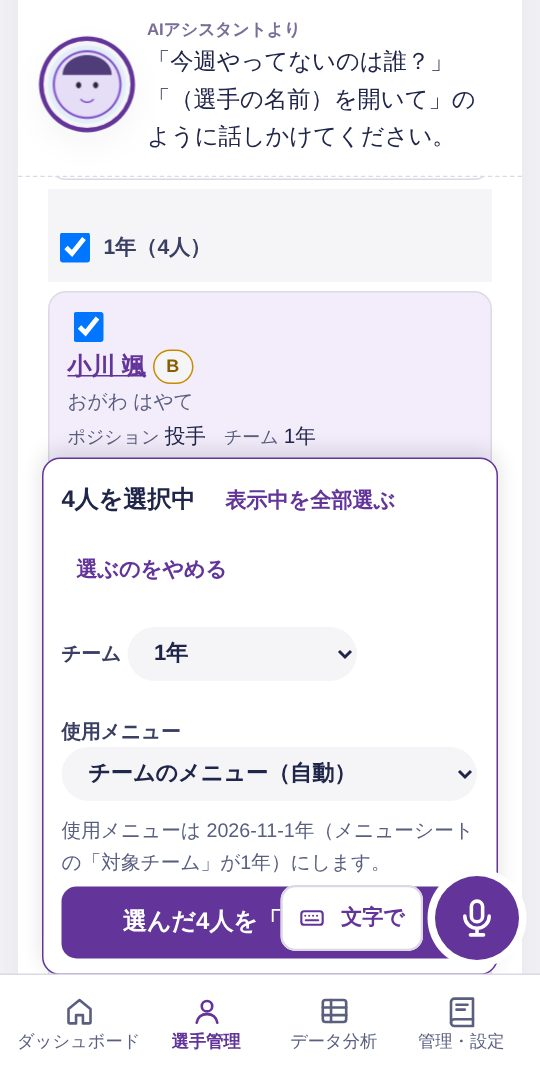
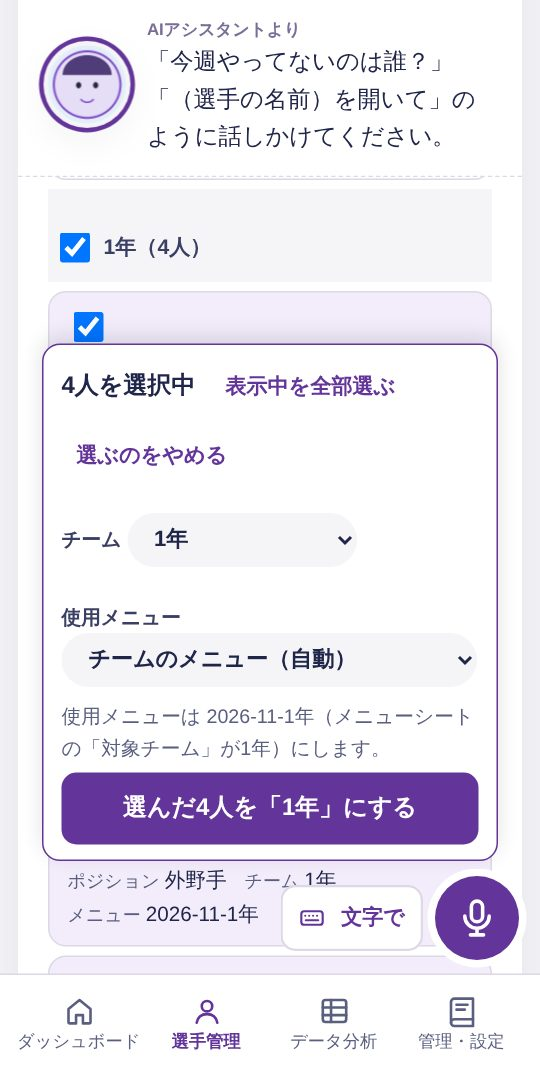
Add files via upload

Changed region(s): [[0.0593, 0.3056, 0.9481, 0.8861], [0.4148, 0.3361, 0.7407, 0.3667], [0.7704, 0.6417, 0.8, 0.6722]]

diff --git a/style.css b/style.css
@@ -139,7 +139,6 @@ input:focus, select:focus { outline: none; border-color: var(--color-accent); ba
 .tag { display: inline-block; padding: 2px 10px; border-radius: 999px; font-size: 0.78rem; font-weight: 700;
   background: var(--color-accent-100); color: var(--color-accent-800); }
 .tag.off { background: var(--warn-bg); color: #6b5200; }
-.chips { display: flex; gap: 8px; flex-wrap: wrap; }
 .chip { display: inline-block; margin: 3px 2px; padding: 8px 12px; border-radius: 999px; background: var(--color-surface); font-size: 0.9rem; font-weight: 600; }
 .chip.done { background: var(--color-accent-100); color: var(--color-accent-800); }
 .topbar { display: flex; justify-content: space-between; align-items: center; gap: 8px; margin-bottom: 8px; }
@@ -171,12 +170,8 @@ details > summary { cursor: pointer; }
 .stamp.done .stamp-mark { background: var(--color-accent); color: #fff; box-shadow: none; }
 .stamp.today .stamp-mark { color: var(--color-accent-700); font-weight: 700; box-shadow: inset 0 0 0 2.5px var(--color-accent); }
 .stamp.today .stamp-label { color: var(--color-accent-700); font-weight: 700; }
-.today-card { display: flex; flex-direction: column; gap: 4px; padding: 20px; border-radius: var(--round); background: var(--color-accent-100); margin: 18px 0; }
-.today-kicker { display: flex; align-items: center; justify-content: space-between; font-size: 0.88rem; font-weight: 600; color: var(--color-accent-800); }
-.today-kicker .btn { color: var(--color-accent-800); margin: -10px -8px -10px 0; }
 .today-title { font-size: 1.6rem; font-weight: 700; line-height: 1.3; }
 .today-items { font-size: 0.95rem; color: var(--color-neutral-800); margin-bottom: 6px; }
-.today-card .btn.ghost { color: var(--color-accent-800); margin-top: 4px; }
 .again { margin: 0 0 14px; font-size: 0.9rem; color: var(--color-neutral-700); }
 .again summary { padding: 8px 0; }
 /* 自分のメニュー */
@@ -239,8 +234,6 @@ details > summary { cursor: pointer; }
 .rpe button { width: 56px; height: 56px; border: none; border-radius: 50%; background: var(--color-surface); color: var(--color-text);
   font: inherit; font-size: 1.25rem; font-weight: 700; cursor: pointer; padding: 0; }
 .rpe button.on { background: var(--color-accent); color: #fff; box-shadow: 0 0 0 3px var(--color-bg), 0 0 0 5px var(--color-accent); }
-.rpe-scale { display: flex; justify-content: space-between; font-size: 0.82rem; color: var(--color-neutral-700); margin-top: 8px; }
-.rpe-pill { width: fit-content; margin: 10px auto 0; padding: 8px 18px; border-radius: 999px; background: var(--color-accent-2-100); color: var(--color-accent-2-800); font-weight: 700; }
 .mm-finish { padding: 14px 16px; border-radius: var(--round); background: var(--color-surface); margin: 18px 0 8px; }
 .mm-finish-head { display: flex; align-items: center; gap: 10px; }
 .mm-finish label { margin-top: 10px; }
@@ -267,11 +260,6 @@ details > summary { cursor: pointer; }
   padding-bottom: env(safe-area-inset-bottom); }
 .dock[hidden] { display: none; }
 .dock > * { max-width: 640px; margin-left: auto; margin-right: auto; }
-.dock-coach { display: flex; align-items: flex-end; gap: 12px; padding: 0 16px; margin-top: -22px; }
-.dock-coach[hidden] { display: none; }
-.dock-coach.no-avatar { margin-top: 0; height: 0; padding-top: 0; }
-.dock-coach.no-avatar .dock-bubble { min-height: 0; position: absolute; left: 16px; right: 16px; bottom: calc(100% + 8px); }
-.dock-coach.no-avatar .coach-line { display: none; }
 .dock-avatar { flex: none; display: block; }
 .dock-avatar:empty { display: none; }
 /* 吹き出し：いつもは「ひとこと」（coachLine）。返事（voiceBox）はその上に重ねて、上に伸びる（バーの高さは変わらない） */
@@ -282,7 +270,6 @@ details > summary { cursor: pointer; }
 .coach-line:empty { visibility: hidden; }
 .voice-box { position: absolute; left: 0; right: 0; bottom: 0; z-index: 2; max-height: min(60vh, 480px); overflow-y: auto; box-shadow: var(--shadow-md); }
 .voice-box[hidden] { display: none; }
-.dock-coach.no-avatar .voice-box { border-radius: 16px; }
 .voice-box .heard { color: var(--color-neutral-700); font-weight: 600; font-size: 0.85rem; }
 .voice-box .reply { color: var(--color-accent-900); margin-top: 2px; font-style: italic; }
 .voice-box .reply.ng { color: var(--color-accent-2-700); }
@@ -548,12 +535,6 @@ body.report-modal-open { overflow: hidden; }
 }
 
 /* ---- 記録し忘れた日の分（v26） ---- */
-.day-pills { display: grid; grid-template-columns: repeat(4, 1fr); gap: 8px; }
-.day-pills button { min-height: 56px; border: none; border-radius: 18px; background: var(--color-surface); color: var(--color-text);
-  font: inherit; font-weight: 700; display: flex; flex-direction: column; align-items: center; justify-content: center; cursor: pointer; }
-.day-pills button span { font-size: .75rem; font-weight: 400; color: var(--color-neutral-700); }
-.day-pills button.on { background: var(--color-accent); color: #fff; }
-.day-pills button.on span { color: #e9f8ff; }
 .late { color: var(--color-accent-2-700); }
 .backdate .next-pills .btn { line-height: 1.3; }
 
@@ -584,10 +565,10 @@ h1 { font-weight: 900; }
 .sec-head .btn.ghost { min-height: 36px; font-size: 0.82rem; }
 
 /* ---- カードは使わない：まとまり（.group / .card / .sec など）は余白と線で区切る ---- */
-.group, .card, .sec, .today-card, .mm-finish, .mm-item, .hist-detail, .ex-card, .mm-row, .done-row, .reorder-row, .hist-month, .tabs, .stat {
+.group, .card, .sec, .mm-finish, .mm-item, .hist-detail, .ex-card, .mm-row, .done-row, .reorder-row, .hist-month, .tabs, .stat {
   background: transparent; box-shadow: none; border-radius: 0; }
-.group, .card, .sec, .today-card { padding: 0; margin: 0 0 24px; }
-.group > * + :is(.sec, section, .card, .today-card, .mm-finish, .hist-detail, .hist-add) { margin-top: 22px; }
+.group, .card, .sec { padding: 0; margin: 0 0 24px; }
+.group > * + :is(.sec, section, .card, .mm-finish, .hist-detail, .hist-add) { margin-top: 22px; }
 .card.soft { background: var(--color-surface); border-radius: 10px; padding: 12px 14px; box-shadow: inset 3px 0 0 var(--color-accent); }
 .card.voice-help { border-top: 1px dashed var(--line-strong); padding-top: 10px; color: var(--color-neutral-700); }
 .topbar { border-bottom: 1px dashed var(--line-strong); padding-bottom: 8px; margin-bottom: 14px; }
@@ -596,8 +577,6 @@ h1 { font-weight: 900; }
 /* ---- マーカー（大事な言葉） ---- */
 .mark, .hist-summary .big-num em, .today-title { background: linear-gradient(transparent 60%, var(--mark) 60%); }
 .today-title { display: inline; font-size: 1.65rem; font-weight: 900; }
-.today-kicker { font-size: 0.78rem; font-weight: 700; color: var(--label); letter-spacing: 0.06em; margin-bottom: 4px; }
-.today-kicker .btn { color: var(--color-accent-700); }
 
 /* ---- 横線の表（今日のメニュー・記録の詳しい内容など） ---- */
 .line-table, .hist-table { width: 100%; border-collapse: collapse; border-top: 1.5px solid var(--rule); border-bottom: 1.5px solid var(--rule); margin: 10px 0 12px; font-size: 0.95rem; }
@@ -639,14 +618,12 @@ input:focus, select:focus { background: var(--color-paper); }
 .coach-band.no-avatar .coach-line { display: none; }
 .voice-box .heard { color: var(--color-neutral-700); font-weight: 500; font-size: 0.82rem; }
 .voice-box .reply { color: var(--color-text); font-style: normal; }
-.voice-box .reply.ng { color: var(--color-accent-2-700); }
 .voice-box .av-name { color: var(--label); }
 .choose-list { gap: 0; border-top: 1.5px solid var(--rule); border-bottom: 1.5px solid var(--rule); margin-top: 8px; }
 .choose-btn { border-radius: 0 !important; background: transparent !important; color: var(--color-accent-700); box-shadow: none !important; min-height: 44px; border-bottom: 1px solid var(--line) !important; font-weight: 700; }
 .choose-btn:last-child { border-bottom: none !important; }
 .choose-btn:not(.sub):not(.ghost) { background: var(--color-accent-100) !important; color: var(--color-accent-700) !important; }
 /* ホーム・ログイン：コーチは紙の一番上に大きく */
-.home-top { display: flex; justify-content: space-between; align-items: center; }
 .home-top .kicker { font-weight: 700; color: var(--color-text); font-size: 0.9rem; }
 .coach-hello { display: flex; gap: 14px; align-items: center; padding: 6px 0 16px; margin: 4px 0 18px; border-bottom: 1px dashed var(--line-strong); }
 .coach-hello .avatar.av-big, .avatar.av-big { width: 84px; height: 84px; }
@@ -714,7 +691,6 @@ input:focus, select:focus { background: var(--color-paper); }
 .stat span { color: var(--label); }
 .rpe button { background: transparent; box-shadow: inset 0 0 0 1.5px var(--line-strong); }
 .rpe button.on { background: var(--color-accent); color: #fff; box-shadow: none; }
-.rpe-pill { border-radius: 4px; background: var(--color-accent-100); color: var(--color-accent-700); }
 
 /* ---- 記録（カレンダー） ---- */
 .hist-summary .big-num { font-size: 1.9rem; font-weight: 900; }
@@ -724,7 +700,6 @@ input:focus, select:focus { background: var(--color-paper); }
 .hist-cal { gap: 4px; margin-top: 6px; padding: 4px 0 8px; border-top: 1.5px solid var(--rule); border-bottom: 1.5px solid var(--rule); }
 .hist-day { width: 100%; max-width: 46px; height: 40px; border-radius: 4px; }
 .hist-day.done { background: var(--color-accent); color: #fff; }
-.hist-day.done.mine-only { background: var(--color-accent-2-600); }
 .hist-day.today { box-shadow: inset 0 0 0 2px var(--color-text); }
 .hist-day.addable { box-shadow: inset 0 0 0 1.5px var(--color-accent-400); color: var(--color-accent-700); }
 .hist-day.addable.today { box-shadow: inset 0 0 0 2px var(--color-text); }
@@ -739,7 +714,6 @@ input:focus, select:focus { background: var(--color-paper); }
 .hist-session { border-top: none; }
 .hist-badge { border-radius: 4px; }
 .hist-add { border-top: 1px dashed var(--line-strong); }
-.day-pills button { border-radius: 10px; }
 
 /* ---- 体組成・スタッフ：タブは下線で切り替え ---- */
 .tabs { padding: 0; border-bottom: 1px solid var(--line-strong); margin: 8px 0 16px; }
@@ -771,7 +745,6 @@ input:focus, select:focus { background: var(--color-paper); }
 
 /* ---- 設定パネル ---- */
 .avatar-picker { background: var(--color-paper); color: var(--color-text); border-radius: var(--round); box-shadow: 0 0 0 1px var(--line-strong), var(--shadow-lg); }
-.avatar-picker-option[aria-pressed="true"] { background: var(--color-accent); color: #fff; box-shadow: none; }
 .avatar-picker-option { border-radius: 10px; }
 
 /* ---- 版の表示 ---- */
@@ -1088,6 +1061,8 @@ body.has-fab .wrap { padding-bottom: calc(var(--dock-h, 90px) + 96px); }
   body.is-staff .staff-voice-row .btn.sub { background: var(--color-paper); min-height: 44px; }
   body.is-staff .staff-voice-row .mic-btn { width: 56px; height: 56px; }
   body.is-staff.has-dock .wrap { padding-bottom: calc(var(--dock-h, 90px) + 96px); }
+  /* v68：チーム分けの欄（下に貼り付く）を、右下に浮かべた「文字で」・マイクの上に出す（重なってボタンの右が押せなかった） */
+  body.is-staff .sl-bar { bottom: calc(var(--dock-h, 70px) + 76px); }
 }
 /* タブレット・PC（768px以上）：左のサイドバー（v65：768〜1199px は細いサイドバー。下の v65 の欄） */
 @media (min-width: 768px) {

diff --git a/index.html b/index.html
@@ -11,9 +11,9 @@
   <link rel="preconnect" href="https://fonts.googleapis.com">
   <link rel="preconnect" href="https://fonts.gstatic.com" crossorigin>
   <link rel="stylesheet" href="https://fonts.googleapis.com/css2?family=Zen+Kaku+Gothic+New:wght@400;500;700;900&display=swap">
-  <link rel="stylesheet" href="style.css?v=67">
+  <link rel="stylesheet" href="style.css?v=68">
   <!-- 昼／夜の色を、画面が出る前に決める（theme.js） -->
-  <script src="theme.js?v=67"></script>
+  <script src="theme.js?v=68"></script>
 </head>
 <body>
   <!-- 画面の上の帯（v30）：コーチと吹き出し。吹き出しには返事（#voiceBox）か、その画面のひとこと（#coachLine）が出る -->
@@ -42,39 +42,39 @@
   <!-- ?v=21… は古いファイルが残らないようにするための印（更新のたびに変える）。config.js は変えない -->
   <!-- 読み込む順番に意味がある（設定 → 通信 → 絵 → 読み上げ → 聞き取り → 画面 → 音声操作 → 下のバー） -->
   <script src="config.js"></script>
-  <script src="api.js?v=67"></script>
-  <script src="icons.js?v=67"></script>
-  <script src="readings.js?v=67"></script>
-  <script src="speech.js?v=67"></script>
-  <script src="voice.js?v=67"></script>
-  <script src="app.js?v=67"></script>
-  <script src="body.js?v=67"></script>
-  <script src="import.js?v=67"></script>
+  <script src="api.js?v=68"></script>
+  <script src="icons.js?v=68"></script>
+  <script src="readings.js?v=68"></script>
+  <script src="speech.js?v=68"></script>
+  <script src="voice.js?v=68"></script>
+  <script src="app.js?v=68"></script>
+  <script src="body.js?v=68"></script>
+  <script src="import.js?v=68"></script>
   <!-- v34：コンディションの推移のグラフ（スタッフ画面の選手詳細） -->
-  <script src="condchart.js?v=67"></script>
-  <script src="staff.js?v=67"></script>
-  <script src="staff_body.js?v=67"></script>
-  <script src="roster.js?v=67"></script>
-  <script src="staff_list.js?v=67"></script>
-  <script src="menu_import.js?v=67"></script>
-  <script src="export.js?v=67"></script>
-  <script src="body_base.js?v=67"></script>
-  <script src="mymenu.js?v=67"></script>
-  <script src="mypage.js?v=67"></script>
-  <script src="guidebook.js?v=67"></script>
-  <script src="history.js?v=67"></script>
-  <script src="avatar.js?v=67"></script>
-  <script src="chat.js?v=67"></script>
+  <script src="condchart.js?v=68"></script>
+  <script src="staff.js?v=68"></script>
+  <script src="staff_body.js?v=68"></script>
+  <script src="roster.js?v=68"></script>
+  <script src="staff_list.js?v=68"></script>
+  <script src="menu_import.js?v=68"></script>
+  <script src="export.js?v=68"></script>
+  <script src="body_base.js?v=68"></script>
+  <script src="mymenu.js?v=68"></script>
+  <script src="mypage.js?v=68"></script>
+  <script src="guidebook.js?v=68"></script>
+  <script src="history.js?v=68"></script>
+  <script src="avatar.js?v=68"></script>
+  <script src="chat.js?v=68"></script>
   <!-- v31：自分のデータの質問に答える（体組成・自己ベスト・順位など） -->
   <!-- v42：ページの見方・言葉の意味 -->
-  <script src="guide.js?v=67"></script>
-  <script src="qa.js?v=67"></script>
+  <script src="guide.js?v=68"></script>
+  <script src="qa.js?v=68"></script>
   <!-- v33：コンディション（疲労度・パフォーマンスの質・コメント）の記録 -->
-  <script src="condition.js?v=67"></script>
-  <script src="commands.js?v=67"></script>
+  <script src="condition.js?v=68"></script>
+  <script src="commands.js?v=68"></script>
   <!-- v35：スタッフ画面の会話（質問に答える・話しかけて操作する） -->
-  <script src="staff_qa.js?v=67"></script>
-  <script src="staff_voice.js?v=67"></script>
-  <script src="dock.js?v=67"></script>
+  <script src="staff_qa.js?v=68"></script>
+  <script src="staff_voice.js?v=68"></script>
+  <script src="dock.js?v=68"></script>
 </body>
 </html>

diff --git a/guidebook.js b/guidebook.js
@@ -169,7 +169,7 @@ var Guidebook = {
       { id: 'voice', h: 'AIアシスタント（声）の使い方', body: [
         'マイクを押して話すか、「文字で」で打ちこみます（パソコンは画面の下、スマホは右下）。パソコンで声が使えないときも文字で使えます。中身は決まった言い方に答える仕組みで、生成AIは使っていません。',
         { img: 's-voice.jpg', alt: 'AIアシスタントに質問したところ' },
-        { table: [['したいこと', '言い方の例'], ['選手の様子', '「今週やってないのは誰？」「疲れている選手は？」「コンディションを入れていないのは誰？」'],
+        { table: [['したいこと', '言い方の例'], ['選手の様子', '「今週の状況をまとめて」「今週やってないのは誰？」「疲れている選手は？」「コンディションを入れていないのは誰？」'],
                   ['1人のこと', '「（名前）を開いて」「（名前）の除脂肪体重の推移は？」「（名前）のフィジカルレポートを開いて」'], ['体組成', '「FFMIの1位は？」「体重を測っていないのは誰？」'],
                   ['画面の操作', '「先週にして」「1年の投手を見せて」「ポジション別にして」「InBodyにして」「体重にして」「戻って」'], ['管理', '「チーム分けをする」「メニューを取り込んで」「部員名簿から取り込んで」'],
                   ['説明', '「このページを説明して」「このページの見方を説明して」「このフィジカルレポートを説明して」「FFMIって何？」']] },
@@ -181,7 +181,7 @@ var Guidebook = {
                   ['種目を足す・呼び方を足す', '種目マスタに行を足す（「呼び方の候補」に別の言い方。部位も入れる）'], ['シートを直したのに画面に出ない', '「キャッシュを消す」（何もしなくても5分で反映）'],
                   ['選手マスタを学年・名前の順にする', '「選手マスタを学年・名前の順に並べ直す」'], ['卒業・退部', '部員名簿の取り込みで「名簿にいない」をチェック、またはマスタの「在籍」を FALSE にする']] },
         { list: ['画面に「通信できませんでした」→ 電波の良い所で「もう一度読み込む」', 'パソコンで声が使えない → 画面に理由が出ます（マイクの許可・マイクがないなど）。「文字で」を使う',
-                 '選手がログインできない → 選手マスタのID・PIN・「在籍」を確かめる。続けて間違えると15分ほどロックされます', 'ブラウザのページが古いまま → 画面の版の表示（例 v67）を確かめ、再読み込みする'] },
+                 '選手がログインできない → 選手マスタのID・PIN・「在籍」を確かめる。続けて間違えると15分ほどロックされます', 'ブラウザのページが古いまま → 画面の版の表示（例 v68）を確かめ、再読み込みする'] },
         '年度の更新や全員のID・PINの発行し直しなど、管理者の作業は「管理者マニュアル（年度更新・保守）」を見てください。'
       ] }
     ]

diff --git a/staff_qa.js b/staff_qa.js
@@ -268,6 +268,19 @@ var StaffQA = {
         var a = d.overview.athletes.filter(function (x) { return x.id === q.person.id; })[0];
         return q.person.name + 'さんは、' + StaffQA.weekLabel(d.overview) + (a && a.sessions ? a.sessions + '回トレーニングしています。' : 'まだトレーニングしていません。') + StaffQA.athleteBrief(q.person.id, d.detail);
       }
+    },
+    {
+      // v68：「今週の状況をまとめて」＝ダッシュボードの「この週の状況」と「確認が必要な選手」を声で。ほかの話題に当てはまらないときだけ（いちばん最後）
+      examples: ['今週の状況をまとめて'],
+      test: function (q) { return !q.person && /状況|じょうきょう|様子|ようす/.test(q.t) && /まとめ|教えて|おしえて|どう|知りたい|しりたい|は$/.test(q.t); },
+      need: ['overview'],
+      answer: function (q, d) {
+        var list = StaffQA.people(d.overview), n = list.length, ck = StaffQA.checks(d.overview);
+        var done = list.filter(function (a) { return a.sessions; }).length, cond = list.filter(function (a) { return a.condCount; }).length;
+        return StaffQA.weekLabel(d.overview) + StaffQA.scope() + 'は、' + n + '人中' + done + '人がトレーニングしています（' + (n ? Math.round(done / n * 100) : 0) + 'パーセント）。' +
+          'コンディションを入れたのは' + cond + '人です。確認が必要な選手は、' + Object.keys(ck).map(function (k) { return StaffQA.CHECK_LABELS[k] + 'が' + ck[k].length + '人'; }).join('、') +
+          'です。1人が複数に入ることがあるので、合計はしません。';
+      }
     }
   ],
 

diff --git a/app.js b/app.js
@@ -8,7 +8,7 @@
  * トレーニング中の記録（draft）は端末に一時保存するので、画面を閉じても続きから再開できる。
  */
 // アプリの版（画面の右上やログイン画面に表示される。更新が反映されたかの確認に使う）
-var APP_VERSION = 'v67 2026-11-06';
+var APP_VERSION = 'v68 2026-11-06';
 // 利用者に見せるアプリの名前（v59）。config.js の APP_NAME は変えずに残し、画面の表示にはこちらを使う
 var BRAND = 'RIKKIO';
 // 記録し忘れた日の分を、何日前まで遡って入力できるか（v26）。Apps Script の 設定.gs の MAX_BACKDATE_DAYS と同じ数字にする

diff --git a/螳滓ｩ溽｢ｺ隱浩v68.md b/螳滓ｩ溽｢ｺ隱浩v68.md
@@ -1,0 +1,45 @@
+# RIKKIO v68 実機・本番の確認チェックリスト
+
+Claude の中では、模擬データ（架空の選手）と自動のブラウザで確認した。**下の項目は、実機と本番のデータで確かめるまで「未確認」**。
+反映（GitHub）は、確認する人が決めてから行う。
+
+## 0. 反映の前に
+- [ ] 今の本番の版（画面の右下・マイページの版の表示）を控える
+- [ ] GitHub のリポジトリを ZIP でダウンロードして控える（元に戻せるように）
+- [ ] v65 → v66 → v67 → v68 の順に上書き（config.js は上書きしない）。版が「v68 2026-11-06」になったか確かめる
+
+## 1. 本番データ・Apps Script との接続（PC Chrome でよい）
+- [ ] 選手でログインできる／ログアウトできる
+- [ ] ホームの今日のトレーニング・今週の実施・最新の身体データ・お知らせ・コラムが、本当のデータで出る
+- [ ] トレーニングを保存すると、スプレッドシートの「セッション」「記録」に入る
+- [ ] コンディションを保存すると「コンディション」シートに入る（体重も入れたときは体重シートにも）
+- [ ] スタッフでログイン：ダッシュボードの人数（今週の実施・入力・A・B・C）が、スプレッドシートで数えた人数と合う
+- [ ] スタッフ：AIアシスタント「今週やってないのは誰？」「今週の状況をまとめて」の人数が、ダッシュボードと同じ
+- [ ] スタッフ：管理者・トレーナー・ほかのスタッフで、「お知らせ・コラムの管理」「ログインの管理」の出る・出ないが正しい
+- [ ] スタッフ：Excel（実施状況・体重一覧）を保存して開ける。PDF（実施状況・フィジカルレポート）を「PDFとして保存」できる
+- [ ] スタッフ：チーム分けを1人だけ試して、選手マスタの「チーム」が変わる（試したら元に戻す）
+
+## 2. iPhone（Safari・ホーム画面に追加したアプリ）
+- [ ] ホーム画面のアプリから開ける。名前・色（RIKKIO・紫）が正しい
+- [ ] 下のバー（ホーム・トレーニング・記録・からだ・マイページ）とマイクが押しやすい
+- [ ] マイクを許可して「デイ1を始める」「100キロ5回」「体重にして」「このページを説明して」が使える（声の読み上げも聞こえる）
+- [ ] トレーニング中：重量の欄・✓・タイマーが押しやすい。途中でアプリを閉じて開き直すと「続きから」が出る
+- [ ] 電波を切って保存 →「今すぐ送信する」が出る → 電波を戻して送れる
+- [ ] コンディション：数字のボタン・「戻る」・「あとで」・保存が押しやすい
+- [ ] 夜（ダークモード）でも読みやすい
+- [ ] 確認の画面（破棄・ログアウトなど）が出て、「キャンセル」で何も起きない
+
+## 3. Android（Chrome）
+- [ ] 2. と同じ項目
+- [ ] 戻るボタン（端末の戻る）で、スタッフの個人ページ → 元の画面に戻る
+
+## 4. PC（Chrome・Edge）
+- [ ] スタッフ：左のサイドバーで4つを切り替えられる。幅を狭めるとタブレットの細いサイドバー → スマホの下のナビになる
+- [ ] 選手管理：行を押すと右に概要。A・B・C の絞り込み
+- [ ] マイクが使えないときは理由が出て、「文字で」で使える
+- [ ] 取り込み（InBody・体重のExcel、メニュー表のPDF、部員名簿）が今までどおりできる
+
+## 5. スマホのスタッフ画面（iPhone・Android のどちらか）
+- [ ] チーム分け：「選んだ○人を…にする」が「文字で」・マイクに隠れず押せる
+- [ ] ダッシュボードの A・B・C を押すと、選手管理でその選手だけが出る
+- [ ] 個人ページ →「フィジカルデータ」→ フィジカルレポート →「戻る」で同じ選手の個人ページ

diff --git a/謇矩・v68.md b/謇矩・v68.md
@@ -1,0 +1,20 @@
+# RIKKIO 段階6（v68） 最終仕上げ・総合確認
+
+**GitHub だけ**を更新する（Apps Script は変更なし。新しいファイルも無い）。
+
+## 変わったこと
+- **チーム分け（スマホ）**：下に出る「選んだ○人を…にする」の欄が、右下の「文字で」・マイクと重なってボタンの右側が押せなかった → 欄を「文字で」・マイクの上に出すようにした（360px でも押せる）
+- **声「今週の状況をまとめて」**（スタッフ）：表示中の週の、実施した人数・割合、コンディションを入れた人数、確認が必要な選手（A・B・C の項目ごとの人数）を答える。ダッシュボードと同じ判定。ほかの言い方には影響しない（当てはまる話題がないときだけ答える）
+- **CSS の整理**：使っていない指定（前の版の sRPE・古いホーム・古い下のバーの名残り）と、同じ指定の重複を消した。見た目は変わらない（画面写真20枚を v67 と比べて確認）
+- **alert / confirm**：すべて確認した。削除・破棄・取り込み・反映・ログアウトの確認と、エラーの知らせだけで、スマホでも標準の確認画面で操作できるため、置きかえずそのまま
+- 使い方（スタッフ向け）の写真「チーム分け」を撮り直し、話し方の例に「今週の状況をまとめて」を足した
+
+## 更新するファイル
+### GitHub（「GitHub更新用_v68.zip」）
+- 上書き：index.html・app.js（版の表示だけ）・guidebook.js・staff_qa.js・style.css
+- 上書き：assets/guide/s-team.jpg
+- 版の表示が「v68 2026-11-06」になっていれば反映済み（config.js は上書きしない）
+- v65〜v67 をまだ反映していないときは、v65 → v66 → v67 → v68 の順に反映する
+
+## 確認（チェックリスト）
+- 下の「実機・本番の確認チェックリスト」（実機確認_v68.md）を使う
